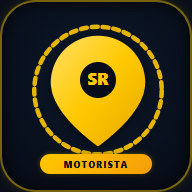
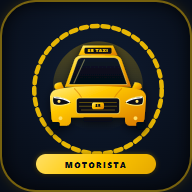
feat: criar icone oficial exclusivo com veiculo executivo e luminoso SR TAXI para o app do motorista

Changed region(s): [[0.1562, 0.125, 0.875, 0.9062], [0.75, 0.8125, 0.8125, 0.9062], [0.75, 0.7812, 0.7812, 0.8125]]

diff --git a/scripts/generate-driver-icons.js b/scripts/generate-driver-icons.js
@@ -1,26 +1,18 @@
 const { chromium } = require('playwright');
 const path = require('path');
-const fs = require('fs');
 
 async function run() {
   const browser = await chromium.launch({ channel: 'msedge', headless: true }).catch(() => chromium.launch({ channel: 'chrome', headless: true }));
   const page = await browser.newPage();
 
-  // Helper function to build icon HTML matching SR Passageiro style
-  function buildIconHtml(size, subtitle = 'MOTORISTA') {
+  function buildDriverCarIconHtml(size) {
     const scale = size / 512;
     const borderRadius = 96 * scale;
     const borderWidth = Math.max(2, 4 * scale);
-    const pinWidth = 210 * scale;
-    const pinHeight = 240 * scale;
-    const dashR = 175 * scale;
-    const dashStroke = 10 * scale;
-    const dashArray = `${14 * scale} ${12 * scale}`;
-    const badgeW = 300 * scale;
+    const badgeW = 320 * scale;
     const badgeH = 54 * scale;
     const badgeRadius = 27 * scale;
-    const fontSizeSR = 42 * scale;
-    const fontSizeBadge = 23 * scale;
+    const fontSizeBadge = 22 * scale;
     const letterSpacing = 3.5 * scale;
 
     return `
@@ -44,7 +36,7 @@ async function run() {
             position: relative;
             width: ${size}px;
             height: ${size}px;
-            background: radial-gradient(circle at 50% 40%, #0D192C 0%, #070D18 85%);
+            background: radial-gradient(circle at 50% 38%, #0F1C32 0%, #070D18 85%);
             border-radius: ${borderRadius}px;
             border: ${borderWidth}px solid rgba(255, 200, 0, 0.45);
             display: flex;
@@ -66,7 +58,7 @@ async function run() {
             width: ${badgeW}px;
             height: ${badgeH}px;
             border-radius: ${badgeRadius}px;
-            background: linear-gradient(135deg, #FFC800 0%, #F59E0B 100%);
+            background: linear-gradient(135deg, #FFE066 0%, #FFC800 50%, #E5A800 100%);
             display: flex;
             align-items: center;
             justify-content: center;
@@ -83,10 +75,29 @@ async function run() {
       <body>
         <div class="icon-box">
           <svg class="svg-layer" viewBox="0 0 512 512">
-            <!-- Dashed orbit circle -->
+            <defs>
+              <linearGradient id="goldGrad" x1="0%" y1="0%" x2="100%" y2="100%">
+                <stop offset="0%" stop-color="#FFF08A" />
+                <stop offset="35%" stop-color="#FFC800" />
+                <stop offset="100%" stop-color="#D97706" />
+              </linearGradient>
+              <linearGradient id="glassGrad" x1="0%" y1="0%" x2="0%" y2="100%">
+                <stop offset="0%" stop-color="#0A1628" />
+                <stop offset="100%" stop-color="#050912" />
+              </linearGradient>
+              <linearGradient id="glowGrad" x1="0%" y1="0%" x2="0%" y2="100%">
+                <stop offset="0%" stop-color="#FFC800" stop-opacity="0.28" />
+                <stop offset="100%" stop-color="#FFC800" stop-opacity="0" />
+              </linearGradient>
+              <filter id="shadow" x="-20%" y="-20%" width="140%" height="140%">
+                <feDropShadow dx="0" dy="8" stdDeviation="12" flood-color="#000000" flood-opacity="0.65"/>
+              </filter>
+            </defs>
+
+            <!-- Dashed orbit ring -->
             <circle
               cx="256"
-              cy="236"
+              cy="234"
               r="170"
               fill="none"
               stroke="#FFC800"
@@ -96,35 +107,100 @@ async function run() {
               opacity="0.9"
             />
 
-            <!-- Yellow Map Pin with Navigation / Car Accent -->
-            <path
-              d="M256 90 C186 90 130 146 130 216 C130 300 256 385 256 385 C256 385 382 300 382 216 C382 146 326 90 256 90 Z"
-              fill="url(#goldGrad)"
-              filter="drop-shadow(0 6px 14px rgba(0,0,0,0.5))"
-            />
+            <!-- Ambient glow behind car -->
+            <circle cx="256" cy="225" r="120" fill="url(#glowGrad)" />
 
-            <!-- Inner dark circle inside pin -->
-            <circle cx="256" cy="208" r="48" fill="#070D18" />
+            <!-- EXECUTIVE CAR / TAXI -->
+            <g filter="url(#shadow)">
+              <!-- TAXI ROOF TOP SIGN -->
+              <path
+                d="M216 116 L296 116 L308 142 L204 142 Z"
+                fill="url(#goldGrad)"
+                filter="drop-shadow(0 4px 8px rgba(0,0,0,0.5))"
+              />
+              <rect x="220" y="122" width="72" height="16" rx="4" fill="#070D18" />
+              <text
+                x="256"
+                y="134"
+                fill="#FFC800"
+                font-size="11"
+                font-weight="900"
+                text-anchor="middle"
+                letter-spacing="1.5"
+              >SR TAXI</text>
 
-            <!-- SR Text in Center -->
-            <text
-              x="256"
-              y="222"
-              fill="#FFC800"
-              font-size="44"
-              font-weight="900"
-              text-anchor="middle"
-              font-family="-apple-system, BlinkMacSystemFont, 'Segoe UI', Roboto, sans-serif"
-              letter-spacing="1"
-            >SR</text>
+              <!-- Roof Base Support -->
+              <rect x="238" y="142" width="36" height="6" rx="2" fill="#D97706" />
 
-            <defs>
-              <linearGradient id="goldGrad" x1="0%" y1="0%" x2="100%" y2="100%">
-                <stop offset="0%" stop-color="#FFE066" />
-                <stop offset="50%" stop-color="#FFC800" />
-                <stop offset="100%" stop-color="#E5A800" />
-              </linearGradient>
-            </defs>
+              <!-- Cabin Top & Pillars -->
+              <path
+                d="M168 226 L194 152 C198 146 206 142 214 142 L298 142 C306 142 314 146 318 152 L344 226 Z"
+                fill="url(#goldGrad)"
+              />
+
+              <!-- Windshield Glass with Sleek Reflection -->
+              <path
+                d="M178 220 L201 156 C203 151 209 148 216 148 L296 148 C303 148 309 151 311 156 L334 220 Z"
+                fill="url(#glassGrad)"
+                stroke="#FFE066"
+                stroke-width="1.5"
+              />
+              <!-- Windshield Diagonal Glare Line -->
+              <line x1="220" y1="154" x2="192" y2="216" stroke="#FFF08A" stroke-width="3" stroke-linecap="round" opacity="0.4" />
+
+              <!-- Side Mirrors -->
+              <path d="M158 214 C144 214 138 220 140 228 C142 234 152 235 166 232 Z" fill="url(#goldGrad)" />
+              <path d="M354 214 C368 214 374 220 372 228 C370 234 360 235 346 232 Z" fill="url(#goldGrad)" />
+
+              <!-- Main Car Body Front -->
+              <path
+                d="M142 234 C132 238 126 248 128 260 L132 312 C134 322 142 330 152 330 L172 330 C178 330 184 324 184 318 L184 308 L328 308 L328 318 C328 324 334 330 340 330 L360 330 C370 330 378 322 380 312 L384 260 C386 248 380 238 370 234 C342 226 298 224 256 224 C214 224 170 226 142 234 Z"
+                fill="url(#goldGrad)"
+              />
+
+              <!-- Aerodynamic Hood Curves -->
+              <path d="M192 230 C210 248 216 260 216 268" fill="none" stroke="#D97706" stroke-width="2.5" stroke-linecap="round" opacity="0.7" />
+              <path d="M320 230 C302 248 296 260 296 268" fill="none" stroke="#D97706" stroke-width="2.5" stroke-linecap="round" opacity="0.7" />
+
+              <!-- Headlights (Aggressive Modern LED) -->
+              <path
+                d="M138 252 C146 252 174 256 182 268 C176 274 152 278 138 273 C134 266 134 256 138 252 Z"
+                fill="#070D18"
+                stroke="#FFF08A"
+                stroke-width="2.5"
+              />
+              <path
+                d="M374 252 C366 252 338 256 330 268 C336 274 360 278 374 273 C378 266 378 256 374 252 Z"
+                fill="#070D18"
+                stroke="#FFF08A"
+                stroke-width="2.5"
+              />
+
+              <!-- LED DRL Brow Lights -->
+              <path d="M140 255 Q165 256 180 266" fill="none" stroke="#FFFFFF" stroke-width="3" stroke-linecap="round" />
+              <path d="M372 255 Q347 256 332 266" fill="none" stroke="#FFFFFF" stroke-width="3" stroke-linecap="round" />
+              <circle cx="152" cy="265" r="4" fill="#FFE066" />
+              <circle cx="360" cy="265" r="4" fill="#FFE066" />
+
+              <!-- Central Honeycomb Grille -->
+              <rect x="198" y="256" width="116" height="42" rx="8" fill="#070D18" stroke="#FFE066" stroke-width="2" />
+              <line x1="206" y1="268" x2="306" y2="268" stroke="#FFC800" stroke-width="1.8" opacity="0.5" />
+              <line x1="206" y1="278" x2="306" y2="278" stroke="#FFC800" stroke-width="1.8" opacity="0.5" />
+              <line x1="212" y1="288" x2="300" y2="288" stroke="#FFC800" stroke-width="1.8" opacity="0.5" />
+
+              <!-- SR Chrome Grille Badge -->
+              <rect x="240" y="268" width="32" height="18" rx="5" fill="url(#goldGrad)" />
+              <text x="256" y="281" fill="#070D18" font-size="11" font-weight="900" text-anchor="middle" letter-spacing="0.5">SR</text>
+
+              <!-- Lower Bumper & Fog Lights -->
+              <rect x="216" y="308" width="80" height="10" rx="4" fill="#070D18" />
+              <circle cx="156" cy="310" r="5" fill="#FFE066" />
+              <circle cx="356" cy="310" r="5" fill="#FFE066" />
+
+              <!-- Tires Under Chassis -->
+              <rect x="130" y="320" width="24" height="20" rx="5" fill="#030712" />
+              <rect x="358" y="320" width="24" height="20" rx="5" fill="#030712" />
+            </g>
           </svg>
 
           <!-- Pill Badge MOTORISTA -->
@@ -137,26 +213,25 @@ async function run() {
 
   // Generate 512x512 Icon
   await page.setViewportSize({ width: 512, height: 512 });
-  await page.setContent(buildIconHtml(512, 'MOTORISTA'));
+  await page.setContent(buildDriverCarIconHtml(512));
   await page.screenshot({ path: path.join(__dirname, '../public/icon-512.png') });
   await page.screenshot({ path: path.join(__dirname, '../public/icon-512-maskable.png') });
-  console.log('✓ icon-512.png generated');
+  console.log('✓ icon-512.png updated');
 
   // Generate 192x192 Icon
   await page.setViewportSize({ width: 192, height: 192 });
-  await page.setContent(buildIconHtml(192, 'MOTORISTA'));
+  await page.setContent(buildDriverCarIconHtml(192));
   await page.screenshot({ path: path.join(__dirname, '../public/icon-192.png') });
   await page.screenshot({ path: path.join(__dirname, '../public/apple-touch-icon.png') });
-  console.log('✓ icon-192.png & apple-touch-icon.png generated');
+  console.log('✓ icon-192.png updated');
 
   // Generate 32x32 Icon
   await page.setViewportSize({ width: 32, height: 32 });
-  await page.setContent(buildIconHtml(32, 'MOTORISTA'));
+  await page.setContent(buildDriverCarIconHtml(32));
   await page.screenshot({ path: path.join(__dirname, '../public/icon-32.png') });
-  console.log('✓ icon-32.png generated');
+  console.log('✓ icon-32.png updated');
 
   await browser.close();
-  console.log('All icons successfully standardized with SR Passageiro!');
 }
 
 run().catch(console.error);

diff --git a/src/components/Brand/Logo.tsx b/src/components/Brand/Logo.tsx
@@ -59,31 +59,31 @@ export function Logo({
       <svg className="w-full h-full p-1" viewBox="0 0 512 512">
         <circle
           cx="256"
-          cy="256"
-          r="210"
+          cy="234"
+          r="190"
           fill="none"
           stroke="#FFC800"
-          strokeWidth="24"
-          strokeDasharray="24 18"
+          strokeWidth="20"
+          strokeDasharray="20 16"
           strokeLinecap="round"
         />
-        <path
-          d="M256 80 C175 80 110 145 110 226 C110 320 256 420 256 420 C256 420 402 320 402 226 C402 145 337 80 256 80 Z"
-          fill="#FFC800"
-        />
-        <circle cx="256" cy="216" r="56" fill="#070D18" />
-        <text
-          x="256"
-          y="233"
-          fill="#FFC800"
-          fontSize="52"
-          fontWeight="900"
-          textAnchor="middle"
-          fontFamily="sans-serif"
-          letterSpacing="1"
-        >
-          SR
-        </text>
+        {/* Roof taxi sign */}
+        <rect x="200" y="80" width="112" height="36" rx="10" fill="#FFC800" />
+        <rect x="210" y="86" width="92" height="24" rx="6" fill="#070D18" />
+        <text x="256" y="103" fill="#FFC800" fontSize="16" fontWeight="900" textAnchor="middle" letterSpacing="1">TAXI</text>
+        <rect x="236" y="116" width="40" height="10" rx="2" fill="#E5A800" />
+        {/* Car cabin */}
+        <path d="M150 230 L185 126 C192 116 206 110 218 110 L294 110 C306 110 320 116 327 126 L362 230 Z" fill="#FFC800" />
+        <path d="M164 222 L194 130 C198 124 206 120 214 120 L298 120 C306 120 314 124 318 130 L348 222 Z" fill="#070D18" />
+        {/* Car body */}
+        <path d="M118 240 C106 244 98 256 100 270 L106 330 C108 342 118 350 130 350 L152 350 C160 350 166 342 166 334 L166 322 L346 322 L346 334 C346 342 352 350 360 350 L382 350 C394 350 404 342 406 330 L412 270 C414 256 406 244 394 240 C360 230 308 226 256 226 C204 226 152 230 118 240 Z" fill="#FFC800" />
+        {/* Headlights */}
+        <path d="M114 262 C124 262 154 266 162 278 C156 286 130 290 114 284 Z" fill="#070D18" stroke="#FFE066" strokeWidth="3" />
+        <path d="M398 262 C388 262 358 266 350 278 C356 286 382 290 398 284 Z" fill="#070D18" stroke="#FFE066" strokeWidth="3" />
+        {/* Grille & SR Badge */}
+        <rect x="186" y="266" width="140" height="48" rx="10" fill="#070D18" stroke="#FFE066" strokeWidth="2.5" />
+        <rect x="236" y="278" width="40" height="24" rx="6" fill="#FFC800" />
+        <text x="256" y="295" fill="#070D18" fontSize="15" fontWeight="900" textAnchor="middle">SR</text>
       </svg>
     </div>
   );
